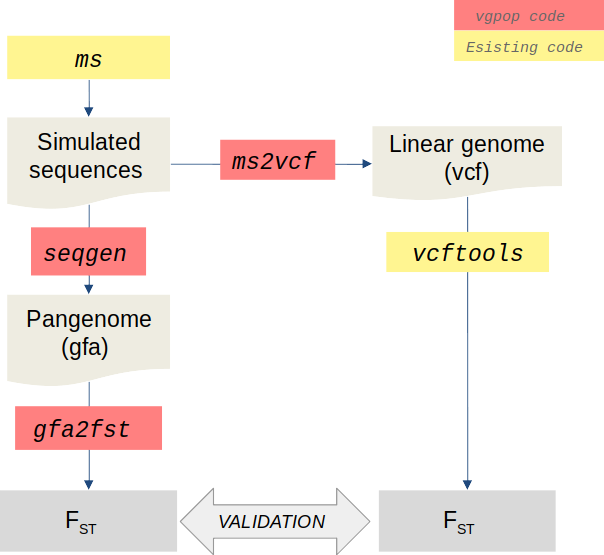
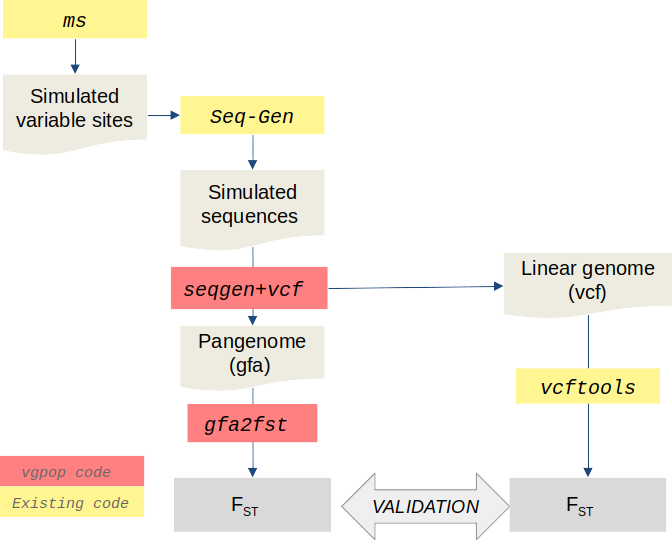
Updates from Overleaf

diff --git a/Chapters/Result_Candidate.tex b/Chapters/Result_Candidate.tex
@@ -297,7 +297,7 @@ The code I developed for the \textit{seqgen2gfa+vcf} function of \vgp takes as i
 
 %un po' contorta correggere 
 \section{Application of \vgp to simulated data}
-To test if the calculation made by \vgp are accurate, we applied \vgp functions to data for which we can predict ranges of expectations for the parameters calculated by \vgp. In particular we used sequence data produced by simulation under a known demographic scenario. 
+To test if the calculation made by \vgp are accurate, we applied \vgp functions to data for which we can predict ranges of expectations for the parameters calculated by \vgp. In particular we used sequence data produced by simulation under a known demographic scenario of two populations separating from a common ancestral population to measure the degree of separation calculated as $F\textsubscript{st}$. 
 
 %I exploited analiculayses of genetic population on simulated data to already know what to expect.
 
@@ -306,18 +306,17 @@ To test if the calculation made by \vgp are accurate, we applied \vgp functions 
 %  Subsection 
 %%%%%%%%%%%%%%%%%%%%%%%%%%%%%%%%%%%%%%%%%%%%%%%%%%%%%%%%%%%%%%%%%%%%%%%%%%%%%%%%%%%%%%%%%%%%
 
-\subsection{Simulation Scenario and Tools}
+\subsection{Simulation Scenario}
 
-As simulation scenario I considered a model adapted from \cite{hudson2004ms} with two diploid populations separating without subsequent migration (Figure \ref{fig:population.pdf}). The first population is bigger in size compared to the second, and through time develops first maintaining constant size and exponentially expanding in the last 5k generations. The second develops through time maintaining constant size. I considered three possible scenario for separation time: 5k (T1), 10k (T2), and 15k (T3) generations ago. The expectation is that the longer the separation time, the higher will be the $F\textsubscript{st})$ , with scenario T3 having the higher $F\textsubscript{st})$ compared to T2 and T1. \\
+As simulation scenario I considered a model adapted from \cite{hudson2004ms} with two diploid populations separating without subsequent migration (Figure \ref{fig:population.pdf}). The first population is bigger in size compared to the second, and through time develops maintaining constant size until 5k generations ago when it starts to exponentially expand. The second population develops through time maintaining constant size. I considered three possible scenario for separation time: 5k (T1), 10k (T2), and 15k (T3) generations ago. The expectation is that the longer the separation time, the higher will be the $F\textsubscript{st}$ , with scenario T3 having the higher $F\textsubscript{st}$ compared to T2 and T1. \\
 
-Simulations can provide sequence data through all the time spanning the demographic model used, however to simulate a living population we are interested only in the sequences at time zero, i.e. at the end of the simulations.\\
+Simulations can provide sequence data through all the time spanning the demographic model used, however to simulate a living population we are interested only in the sequences at time zero, i.e. at the most recent time.\\
 
 \begin{figure}[H]
 \centering
 \includegraphics[width=1.10\textwidth]{fig/populationthreetime.png}
 \decoRule
-\caption{\textbf{Fig:Population}. 
-T1 (0.031254 Ne), T2(0.0625 Ne),T3(0.09375 Ne)}
+e\caption{\textbf{Demographic models used as simulation scenario.} The y-axis is the time before present and time 0.00 correspond to the time when the sequence data is reported. The time is in units of 4Ne, where Ne represent the effective population size. Initially (time 0.12) there is only one ancestral population. After a number of generations the ancestral population splits in two populations evolving in isolation. I considered three possible times of separation (T1-3). The expectation is that the highest is the separation time the highest is the genetic distance between the two populations measured as $F\textsubscript{st}$.} 
 \label{fig:population.pdf}
 \end{figure}
 
@@ -325,20 +324,10 @@ T1 (0.031254 Ne), T2(0.0625 Ne),T3(0.09375 Ne)}
 %ref piu' recenti 
 \textbf{ms} \cite{hudson2004ms} is a software that generates sequence samples under a variety of neutral models, allowing one to investigate the statistical properties of such samples, to evaluate estimators or statistical tests, and generally to aid in the interpretation of polymorphic data sets. The program ms can be used to generate many independent replicate samples under a variety of assumptions about migration, recombination rate and population size.\\ 
 
-When simulated 100 replicates of eighty individuals in two populations (forty each), that divided 5k generations ago (T1) I used the following command line: 
+Using ms, for each scenario I simulated 100 replicates of a 10kb sequence for eighty individuals in two populations (forty each). When considering a population split time of 5k generations ago (T1) I used the following command line: 
 \begin{verbatim}
 ms 80 100 -T -t 11.2 -I 2 40 40 -g 1 44.36 -n 2 0.05 -eg 0.03125 1 0.0 -ej 0.03125 2 1   
 \end{verbatim}
-
-%I simulated two populations that divided 10.000 generations ago.
-%\begin{verbatim}
-%ms 80 100 -t 11.2 -I 2 40 40 -g 1 44.36 -n 2 0.05 -eg 0.03125 1 0.0 -ej 0.0625 2 1   
-%\end{verbatim}
-
-%I simulating two populations that divided 15k generations ago 
-%\begin{verbatim}
-%ms 80 100 -t 11.2 -I 2 40 40 -g 1 44.36 -n 2 0.05 -eg 0.03125 1 0.0 -ej 0.09375 2 1   
-%\end{verbatim}
 
 The explanation of the parameters used by ms is the following:
 
@@ -372,7 +361,7 @@ To simulate the T2 and the T3 parameters the difference in the command line is i
 
 \subsubsection{Conversion of simulated data in the GFA format}  
 
-To be processed by \vgp, the simulated data must be converted in the GFA format. We did this in two steps. First we transformed the data on variable sites obtained by ms into sequences using Seq-Gen \cite{rambaut1997seq}, than we transformed sequences into graphs with a utility function that I developed, named \textit{seqgen2gfa+vcf}. 
+To be processed by \vgp, the simulated data must be converted in the GFA format. We did this in two steps. First we transformed the data on variable sites obtained by ms into sequences using Seq-Gen \cite{rambaut1997seq}, than we transformed sequences into graphs with a utility function that I developed, named \textit{seqgen2gfa+vcf}. \\
 
 %I needed the whole sequence rebuilt and the links between the bubbles """SPIEGARE PERCHE', per usare odgi"g
 
@@ -380,10 +369,7 @@ To be processed by \vgp, the simulated data must be converted in the GFA format.
 %I convert mstogfa but I need the information about the links between the bubbles. 
 
 
-While ms provides information on variable sites it does not provide information on the invariable sequence between variable sites, that is necessary to build a graph. I obtained the information on invariable sites exploiting the tree connecting the simulated sequences that is also an output of ms. A tree is an entity that describes relationships between objects (Figure \ref{fig:phylogenies.jpg}). The tips of the tree are called leaves; leaves are connected by branches, whose length is proportional to the observed differences between the leaves; the coalescence of two branches generates a node or vertex. In our case the leaves represent the simulated sequences that we are actually interested in because they represent the individuals at current time. The nodes indicate the most common ancestor of sequences, the root of the tree is a special node located at the beginning of the tree. 
-
-%aggiungere due colori uno per pangenomica uno per evolutonary, la figura serve per ora e per dopo
-
+While ms provides information on variable sites it does not provide information on the invariable sequence between variable sites, that is necessary to build a graph. I obtained the information on invariable sites exploiting the tree connecting the simulated sequences that is also an output of ms. A tree is an entity that describes relationships between objects (Figure \ref{fig:phylogenies.jpg}). The tips of the tree are called leaves; leaves are connected by branches, whose length is proportional to the observed differences between the leaves; the coalescence of two branches generates a node or vertex. In our case the leaves represent the simulated sequences that we are actually interested in because they represent the individuals at current time. The nodes indicate the most common ancestor of sequences, the root of the tree is a special node located at the beginning of the tree. \\
 
 
 \begin{figure}[H]
@@ -396,74 +382,55 @@ While ms provides information on variable sites it does not provide information 
 
 Seq-Gen \cite{rambaut1997seq} is a program that simulates the evolution of nucleotide sequences along a phylogeny, using common models of the substitution process. A range of models of molecular evolution are implemented, including the general reversible model. 
 
-Using the tree obtained by ms, Seq-Gen reconstructed the entire sequences, including the invariable parts, for all replicates under the three simulated times. The command lines for Seq-Gen are: 
+Using the tree obtained by ms, Seq-Gen reconstructed the entire sequences, including the invariable parts, for all replicates under the three simulated scenario. The command lines for Seq-Gen are: 
 
 \begin{verbatim}
-seq-gen -mHKY -l 40 -s .2 -wa -z 783763255346462154 <treems40popT1> T1.seqgen
-
-seq-gen -mHKY -l 40 -s .2 -wa -z 783763255346462154 <treems40popT2> T2.seqgen
-
-seq-gen -mHKY -l 40 -s .2 -wa -z 783763255346462154 <treems40popT3> T3.seqgen
-
+seq-gen -mHKY -l 1000 -s .2 -wa -z 783763255346462154 <treems40popT1> T1.seqgen
 \end{verbatim}
-
+where T1.seqgen is the output of the simulations under the scenario T1.
 The explanation of the parameters is:
 
 \begin{itemize}
-
 \item\textbf{m <MODEL>:} This option sets the model of nucleotide or amino acid substitution.
 \item\textbf{l <SEQUENCELENGTH>:} This option allows the user to set the length in nucleotides or amino acids that each simulated sequence should be.
 \item\textbf{s <SCALE>:} This option allows the user to set a value with which to scale the branch lengths in order to make them equal the expected number of substitutions per site for each branch. Basically Seq-Gen multiplies each branch length by this value.
 \item\textbf{z <RANDOMNUMBERSEED>:} This option allows the user to specify a seed for the random number generator. Using the same seed (with the same input) will result in identical simulated datasets. This is useful because you can then delete the (often large) simulated sequence files to save disk space. To recreate a set of simulations, you must use exactly the same model options. The default is to obtain a seed from the system clock which will be displayed on the screen allowing it noted down.
 \item\textbf{wa:}
-Write Ancestral Sequences. This option allows the user to obtain the sequences for each of the internal nodes in the tree obtained with ms 
-\end{itemize}
+Write Ancestral Sequences. This option allows the user to obtain the sequences for each of the internal nodes in the tree obtained with ms \end{itemize}
 
-%descrizione seqgen2gfa+vcf
-
-\subsection{Calculation of  $F\textsubscript{st})$  from simulated data using \vgp}
+Once I obtained the variable sites from ms and the sequence from SeqGen I used the \vgpop function \textit{seqgen2gfa+vcf} that I wrote, to convert the sequences from SeqGen to GFA format.  
 
 
+
+%-------------------------------------------------------------
+\subsection{Calculation of  $F\textsubscript{st}$ from simulated data using \vgp}
+
+I calculated $F\textsubscript{st}$ from the pangenome of the simulated data using the \vgpop function \textit{gfa2vcf}. As a control the simulated sequences were also converted in a VCF file that was used to calculate $F\textsubscript{st}$ with an already existing software: in this way I can compare if the $F\textsubscript{st}$ obtained by the software I wrote are in the same range of those obtained in a different way (Figure \ref{fig:pipeline.pdf}). \\
+
+
+%cambiare figura 11 in minipresentazione= line1
 \begin{figure}[H]
 \centering
-\includegraphics[width=1.00\textwidth]{fig/pipeline_new.png}
+\includegraphics[width=1.00\textwidth]{fig/pipeline.png}
 \decoRule
-\caption{\textbf{Fig:Pipeline}. 
-Validation.}
+\caption{\textbf{Pipeline for the application and validation of \vgp to simulated data.} I used the software ms to produce 100 replicates of simulated variable sites in a 10kb region for eighty individuals under each of the three scenario in Figure \ref{fig:population.pdf}. The variable sites were transformed in sequences that include also the invariable part using SeqGen and the sequences were used to reconstruct the pangenome of the simulated data that was then processed with the \textit{gfa2fst} function of the \vgp library. $F\textsubscript{st}$ calculation was validated using a software, vcftools, that uses a different $F\textsubscript{st}$ formula. }
 \label{fig:pipeline.pdf}
 \end{figure}
 
-Starting from ms, I obtained simulated sequences, I reconstruct an ancestral tree with Seq-Gen. 
-
-These sequences were encoded in a GFA file and VCF file with \textit{seqgen2gfa+vcf }.
-
-
-On GFA file I calculate the allele frequencies with \textit{gfa2allelefreq}, the genotype frequencies with \textit{gfa2genofreq}, and the Fst with \textit{gfa2fst}. 
-
-On VCF file I extract individuals from the populations that I considered with bcftools. %non so se mettere questa parte
-\begin{verbatim}
-
-bcftools view -S pop_1.txt seqgen.vcf.gz -o seqgen.bcf.vcf.gz #pop1
-bcftools view -S pop_2.txt seqgen.vcf.gz -o  seqgen.bcf.vcf  #pop2 
-\end{verbatim}
-
-Calculate Allele Frequencies for two populations with vcftools
-\begin{verbatim}
-
-vcftools --vcf seqgen.bcf.vcf --freq --out seqgen.bcf.pop1.vcf .frq
-
-vcftools --vcf ms_rep{1}.bcf.vcf --freq --out seqgen.bcf.pop2.vcf.frq 
-
-\end{verbatim}
-
-I calculate Fst with \textit{vcf2fst} (aggiungerlo nell'immagine?). %aggiungere altre info sullo script
-
-Fst is the same from GFA and VCF file.
-
-
 \begin{figure}[H]
 \centering
-\includegraphics[width=1.00\textwidth]{fig/fst_time (1).png}
+\includegraphics[width=1.00\textwidth]{fig/Fstvcftoolsandvgpop.png}
+\decoRule
+\caption{\textbf{Fig:valure of Fst are equal}.}
+\label{fig:fsttime.png}
+\end{figure}
+
+
+$F\textsubscript{st}$ was calculated for each replicates of each scenario. Figure \ref{fig:fsttime.png} shows the distributions of $F\textsubscript{st}$ relative to the three scenario and table XXX reports the relative summary statistics. FRASE CHE COMMENTA I RISULTATI doppo che vediamo la figura definitiva    Fst is the same from GFA and VCF file.\\
+ 
+\begin{figure}[H]
+\centering
+\includegraphics[width=1.00\textwidth]{fig/tabvcftoolsvgpop.png}
 \decoRule
 \caption{\textbf{Fig:valure of Fst are equal}.}
 \label{fig:fsttime.png}
@@ -474,7 +441,18 @@ Fst is the same from GFA and VCF file.
 
 
 
+
 \section{Application of \vgp to real data: allele frequencies at variable loci of the HLA region}
+
+HLA is an highly polymorphic region of the genome and it is particularly difficult to assemble with linear methods. The HLA region represent a typical case in which the use of pangenomes can improve the mappability of the sequence reads and the discovery of genomic variants \cite{chin2019diploid}.
+%referenza tesi Erik HLA
+%calcolare sul vcf frequenze alleliche con vcftools
+%Pangenomic methods allow us to relate all genomes or sequences in our analysis directly to each other. One of the most polymorphic parts of the genome is the HLA region and for this thing I chose this region.
+
+PAngenome Class I E gene  bp long 9 sequences  ENSEMBL 
+
+I calculated allele frequency at variable sites in the HLA region from a pangenome obtained 
+
 
 I applicate two functions of \vgp to pangenomes of HLA. In particular I calculate \textit{gfa2vcf} and \textit{gfa2allelefreq}.
 
@@ -482,14 +460,27 @@ I applicate two functions of \vgp to pangenomes of HLA. In particular I calculat
 
 \begin{figure}[H]
 \centering
-\includegraphics[width=0.50\textwidth]{fig/pangenome.pdf}
+\includegraphics[width=1.10\textwidth]{fig/pangenomeHLA.png}
 \decoRule
 \caption{\textit{pangenome}. Is represented a piece of pangenome of HLA, the first row represent Reference and the other rows represent another paths. (\textbf{A}). Zoom for the first column  (\textbf{B}), zoom the second column(\textbf{C})}
 \label{fig:pangenome.pdf}
 \end{figure}
 
+HLA-E is encoded by the major histocompatibility complex (MHC) locus and belongs to non-classical MHC class I (MHC Ib) genes. HLA-E protein shares high structural and functional homology with other MHC class I molecules. HLA-E is expressed on most nucleated cells of the human body. However, surface expression ofHLA-E protein was found in a restricted set of tissues. In particular, it has been found on leukocytes,endothelium, and cells of trophoblast.\cite{kanevskiy2019dimorphism} 
 
-Pangenomic methods allow us to relate all genomes or sequences in our analysis directly to each other. One of the most polymorphic parts of the genome is the HLA region and for this thing I chose this region.
+
+
+
+
+
+\begin{figure}[H]
+\centering
+\includegraphics[width=1.20\textwidth]{fig/C-3107.sort.odgi.png}
+\decoRule
+\caption{\textit{pangenome}.Gene con inserzioni,SNP, regione molto complessa}
+\label{fig:pangenome.pdf}
+\end{figure}
+
 
 \subsection{gfa2vcf}
 
@@ -522,7 +513,7 @@ The same for the second column, left node there aren't in 5 paths, and for calcu
 
 
 %sequenze nel pangenoma sotto forma di lettere
-
+%sostituire A con pangenoma intero e provare con un gene famoso
 
 {\small
 \begin{table}
@@ -543,6 +534,10 @@ gi|568815592:30489405-30494204 & 3904 & G & A & 0.67\\
 \end{adjustbox}
 \end{table}
 }
+
+
+
+HLA semlice ma un po' più complesso
 
 
 

diff --git a/Chapters/Introduction.tex b/Chapters/Introduction.tex
@@ -25,11 +25,11 @@
 %PER ENZA \url{https://aulascienze.scuola.zanichelli.it/come-te-lo-spiego/2018/04/18/dal-metodo-sanger-a-oggi-40-anni-di-sequenziamento-del-dna/} mi sono ispirata a questi
 
 
-The process of sequencing determines the exact order of the monomers in a biomolecule, the nucleotides in the case of DNA sequencing. Sequence analyses has many applications, e.g. identify mutations or establish phylogenetic relationships among species. Sanger's method marked the beginning of genomics research and has been successfully until a decade ago when \textit{next generation sequencing (NGS)} was introduced to overcome the main limit of the Sanger sequencing,(\cite{Sanger5463}) i.e. the sequencing volume.
+The process of sequencing determines the exact order of the monomers in a biomolecule, the nucleotides in the case of DNA sequencing. Sequence analyses has many applications, such as identifing mutations or establish phylogenetic relationships among species. Sanger's method marked the beginning of genomics research and has been successfully until a decade ago when \textit{next generation sequencing (NGS)} was introduced to overcome the main limit of the Sanger sequencing,\cite{Sanger5463} i.e. the sequencing volume.
 
-The main feature of NGS sequencing is the high-throughput. Unlike the traditional Sanger method, the NGS allows to analyze many sequences in parallel, reducing analysis times and costs. This reduction has improved over time: the sequencing of the first human genome, based on the Sanger method, required an investment of almost 100M dollars in about ten years, while today the sequence of a human genome can be obtained for less than 1k dollars in one day (\cite{sequencing}). Nevertheless, NGS has limitations too. The main limitation is the initial amplification of DNA sequences, which can introduce random errors in the sequence and leads to the loss of "accessory" information, such as the constellation of epigenetic modifications that are important for understanding the function of a fragment of genome. (\cite{sequencing}) A second important limitations the size of the sequenced regions that covers at its best 700kb making impossible to map large structural variants.
+The main feature of NGS sequencing is the high-throughput. Unlike the traditional Sanger method, the NGS allows to analyze many sequences in parallel, reducing analysis times and costs. This reduction has improved over time: the sequencing of the first human genome, based on the Sanger method, required an investment of 2.7 billion dollars in about ten years \cite{ \footnote{Estimated in 1991 dollars, as per \url{https://www.genome.gov/human-genome-project/Completion-FAQ}}, while today the sequence of a human genome can be obtained for less than 1k dollars in one day \cite{sequencing}. Nevertheless, NGS has limitations too. One essential limitation is the initial amplification of DNA sequences, which can introduce random errors in the sequence and leads to the loss of "accessory" information, such as the constellation of epigenetic modifications that are important for understanding the function of a fragment of genome \cite{sequencing}. A second, and more severe limitation from the perspective of sequence analysis, is the short length of sequencing reads, which are typically shorter than 250bp. This greatly limits the fraction of a genome which can be accessed by this sequencing technology, and complicates the discovery and genotyping of structural variation.
 
-To overcome these limitations, research is now pointing towards \textit{third generation} methods that are oriented toward sequencing very long regions (ideally whole chromosomes) without  prior amplification. Among these methods, nanopore sequencing derives from an observation from the 1980s that when a single-stranded DNA passes through a very narrow channel (nanopore) (Fig:\ref{fig:nanopore.png})generates a flow of ions with a characteristic pattern, which depends uniquely on its sequence. This technology allows sequencing millions of nucleotides without prior amplification of DNA fragments. (\cite{wiki:nanopore}).
+To overcome these limitations, research is now pointing towards \textit{third generation} methods that are oriented toward sequencing very long regions (ideally whole chromosomes) without  prior amplification. Among these methods, nanopore sequencing derives from an observation from the 1980s that when a single-stranded DNA passes through a very narrow channel (nanopore) (Fig:\ref{fig:nanopore.png})generates a flow of ions with a characteristic pattern, which depends uniquely on its sequence. This technology allows sequencing millions of nucleotides without prior amplification of DNA fragments. \cite{wiki:nanopore}.
 
 \begin{figure}[H]
 \centering
@@ -181,7 +181,7 @@ VCF file (\ref{fig:vcf.png}) consists of:
 In the (Fig: \ref{fig:vcf.png}) adapted by (\cite{10.1093/bioinformatics/btr330}) the header contains an arbitrary number of information lines, each starting with characters \#\#, and a TAB delimited field definition line, starting with a single \#,
 character. The meta-information header lines provide a standardized description of tags and annotations used in the data section. The use of meta-information allows the information stored within a VCF file to be tailored to the data set in question. It can be also used to provide information about the means of file creation, date of creation, version of the reference sequence, software used and any other information relevant to the history of the file. 
 
-\item\textbf{Data column}
+\item\textbf{Data columns}
 
 These corresponding to data columns representing the chromosome (CHROM), a 1-based position of the start of the variant (POS), unique identifiers of the variant (ID), the reference allele (REF), a comma separated list of alternate non-reference alleles (ALT), a phred-scaled quality score (QUAL), site filtering information (FILTER) and a semicolon separated list of additional, user extensible annotation (INFO). In addition, if samples are present in the file, the mandatory header columns are followed by a FORMAT column and an arbitrary number of sample IDs that define the samples included in the VCF file. The FORMAT column is used to define the information contained within each subsequent genotype column, which consists of a colon separated list of fields.
 
@@ -190,7 +190,7 @@ These corresponding to data columns representing the chromosome (CHROM), a 1-bas
 
 \subsection{Graphical Fragment Assembly}
 
-Pangenome data are represented by Graphical Fragment Assembly (GFA).(\cite{GFA})
+Pangenome data are represented by Graphical Fragment Assembly (GFA, \cite{GFA})
 
 \begin{figure}[H]
 \centering
@@ -230,20 +230,22 @@ Path an ordered list of oriented segments, where each consecutive pair of orient
 \centering
 \includegraphics[width=0.80\textwidth]{fig/HLA_loci.png}
 \decoRule
-\caption{Schematic representation of the HLA locus on human chromosome 6. \cite{zakharova2019contribution})}
+\caption{Schematic representation of the HLA locus on human chromosome 6. adapted from \cite{zakharova2019contribution})}
 \label{fig:HLA.png}
 \end{figure}
 
-Genetic studies describes that an important roles in the developing of diseases is played by the major histocompatibility complex (MHC), or human leukocyte antigen (HLA). It contains several gene clusters that encode surface heterodimeric proteins, which are anchored to the plasma membrane and are responsible for antigen presentation to T cells, a stage that is followed by the development of an adaptive immune response. MHC proteins are subdivided into class I, class II, and class III (the complement system) \cite{campbell1993map}.
 
 
 
-The HLA region (Fig.\ref{fig:HLA.png}) adapted by \cite{zakharova2019contribution} is located on the short arm of chromosome 6 from 6p21.1 to p21.3 and is shown with a red stripe. The length of class II (red), class III (blue), and class I (green) genes (from the centromeric to the telomeric end) is shown. The class II region includes genes for the $\alpha$ and $\beta$ chains of the MHC class II molecules HLA-DR, HLA-DP and HLA-DQ. In addition, the genes encoding the DMαand DM $\beta$ chains, as well as the genes encoding the $\alpha$ and $\beta$ chains of the DO molecule (DO $\alpha$ and DO $\beta$, respectively), are also located in the MHC class II region.
+The human major histocompatibility complex (MHC) or human leukocyte antigen (HLA) is a locus composed of closely linked polymorphic genes that code for cell surface proteins essential for the adaptive immune system. It contains several gene clusters coding surface heterodimeric proteins, which are anchored to the plasma membrane and are responsible for antigen presentation to T cells, a stage that is followed by the development of an adaptive immune response. MHC proteins are subdivided into class I, class II, and class III (the complement system) \cite{campbell1993map}. Many genetic diseases are caused by mutations in this region \cite{tiwari2012hla}.  
+
+
+The HLA region (Fig.\ref{fig:HLA.png}) is located on the short arm of chromosome 6 from 6p21.1 to p21.3 in a region spanning 7Mb. The class II region includes genes for the $\alpha$ and $\beta$ chains of the MHC class II molecules HLA-DR, HLA-DP and HLA-DQ. In addition, the genes encoding the DM$\alpha$ and DM $\beta$ chains, as well as the genes encoding the $\alpha$ and $\beta$ chains of the DO molecule (DO $\alpha$ and DO $\beta$, respectively), are also located in the MHC class II region.
 
 
 
 
 
-In the latest version \cite{eggertsson2017graphtyper} of the human reference genome (GRCh38), there are several alternate loci where the sequence variation is too complex to be represented with a single sequence. These loci are generally highly polymorphic, and many are known to co-segregate with disease and are therefore of great interest in population genetics. The most prominent example, the HLA region, is known to associate with a number of human diseases \cite{tiwari2012hla}. 
+In the latest version of the human reference genome (GRCh38), there are several alternate loci where the sequence variation is too complex to be represented with a single sequence \cite{eggertsson2017graphtyper}. These loci are generally highly polymorphic, and many are known to co-segregate with disease and are therefore of great interest in population genetics. The most prominent example, the HLA region, is known to associate with a number of human diseases . 
 
 Short-read sequencing is the standard in genome-wide sequence analysis. Most common approaches for discovering sequence variants involve aligning sequence reads to a reference genome \cite{li2009fast} and searching for variants as alternative sequences in read alignments. However, some reads cannot be aligned to a reference genome, particularly those originating from highly polymorphic regions and regions absent from the reference genome.

diff --git a/Chapters/Aimsthesis.tex b/Chapters/Aimsthesis.tex
@@ -8,18 +8,14 @@
 
 %Illustra in modo chiaro e coinciso le finalità del lavoro sperimentale svolto dal candidato. 
 
-The way in which the study of genomic sequences is studied is facing a major change. Standard studies in sequence analysis typically assume a single linear reference genome with severe limitations in the identification of structural and complex variation. Pangenomic models, i.e. ERIK... allow to overcome these limitations  ... \\
+We are updating our methods to study genomic sequences to meet new challenges and reach for new possibilities offered by contemporary sequencing technology. The development of high-quality long-read sequencing methods allow us to routinely assemble whole genomes \emph{de novo}. This situation allows us to consider whole genomes in our analyses, allowing us to expose the full range of genomic variation to downstream studies. However, doing so requires updates to our methods, to allow us to consider the mutual relationships between a collection of sequences in a complete way.
 
+Pangenomes are large, and unwieldy to work with as raw collections of sequences. One possible approach to processing them considers the collection of genomes and their mutual alignment in a compact, graphical model. As a lossless representation of the pangenome and its embedded sequence variation, these \emph{variation graphs} should in principle support any kind of population genetic analysis that would be completed on simpler representations of the genomes and their variation. But, because this pangenomic approach is quite recent, the software for population genetic analyses currently available are still mostly based on genomic data in the linear format.
 
-Because the pangenomic approach is quite recent, the software for population genetic analyses currently available is mostly based on genomic data in the linear format.  
-%With this model another limit is that see the information that there are presents in the reference sequence. To address this limitation, the aim of my thesis is work to implement a software library for the statistical population analysis using pangenomic data models.
+In this thesis, I respond to this need by implementing a set of tools for population genetics on genome graphs. At a high level, my work has two parts. I first uncover genomic variation embedded in pangenomic variation graphs by developing and implementing straightforward algorithms for \emph{bubble} detection on variation graphs. I then demonstrate the calculation of basic population genetic parameters over these variations, considering the set of genomes embedded in the graph.
 
-%\noindent
-%These are Typically represented in the Graphical Fragment Assembly (GFA) format, these models can represent whole genome alignments in a compact graphical structure. Because they embed the linear genomes from which they are constructed, I can choose a particular reference genome and project the variants (which appear as bubbles in the graph) back into any reference frame. I have focused for the first step on algorithms for bubble detection that allow us to generate Variant Call Format (VCF) files from graphs.
-%I use this projection to drive standard population genetic analyses, and as a mechanism to communicate results that we obtain from pangenome graph based population genetic analyses which I am designing.
-%In the second step, I use functions of library for analyses directly on pangenome data.
+Specifically, this work required the completion of a series of tasks:
 
-The aim of the project I developed during my master thesis was to implement a library for population genetic analysis from pangenomic data. The objectives were: 
 
 \begin{itemize}
     \item To write code for parsing variable regions of the genomic data in graphical fragment assembly format 
@@ -27,6 +23,19 @@ The aim of the project I developed during my master thesis was to implement a li
     \item To test the functions of the library on simulated data
     \item To test the functions of the library on a case study
 \end{itemize}
+
+
+%The way in which the study of genomic sequences is studied is facing a major change. Standard studies in sequence analysis typically assume a single linear reference genome with severe limitations in the identification of structural and complex variation. Pangenomic models, i.e. ERIK... allow to overcome these limitations  ... \\
+
+
+%With this model another limit is that see the information that there are presents in the reference sequence. To address this limitation, the aim of my thesis is work to implement a software library for the statistical population analysis using pangenomic data models.
+
+%\noindent
+%These are Typically represented in the Graphical Fragment Assembly (GFA) format, these models can represent whole genome alignments in a compact graphical structure. Because they embed the linear genomes from which they are constructed, I can choose a particular reference genome and project the variants (which appear as bubbles in the graph) back into any reference frame. I have focused for the first step on algorithms for bubble detection that allow us to generate Variant Call Format (VCF) files from graphs.
+%I use this projection to drive standard population genetic analyses, and as a mechanism to communicate results that we obtain from pangenome graph based population genetic analyses which I am designing.
+%In the second step, I use functions of library for analyses directly on pangenome data.
+
+%The aim of the project I developed during my master thesis was to implement a library for population genetic analysis from pangenomic data. The objectives were: 
 
 
 

diff --git a/Chapters/Abstract.tex b/Chapters/Abstract.tex
@@ -16,8 +16,8 @@
 \newcommand{\option}[1]{\texttt{\itshape#1}}
 
 %~~~~~~~~~~~~~~~~~~~~~~~~~~~~~~~~~~~~~~~~~~~~~~~~~~~~~~~~~~~~~~~~~~~~~~~~~~~~~~~~~~~~~~~
-Studies of genomics typically assume a single linear reference genome and these presents limits. I started the development of a software library for the statistical analysis using pangenomic data models, these represent whole genome alignments in a compact structure, without loosing information. Because a pangenome embeds the linear genomes from which it is constructed, we can choose a particular reference genome and project the variants on it(which appear as bubbles in the graph). Therefore, I focused on develop algorithms for bubble detection, generating Variant Call Format (VCF) files directly from graphs.
+Studies of genomes typically assume a single linear reference genome. This can make it difficult to observe sequences in other genomes that are divergent from the reference, which in turn can limit the accuracy and completeness of our analyses. To address this limitation, we can work with pangenome reference systems that represent the mutual relationships between many complete genomes without using a single one as a point of reference. These models often encode genomes and their mutual alignment in a compact graphical structure. Here, I begin the development of a software library for the statistical analysis of population genetic parameters of genomes stored in these graphical pangenomic data models. Because a pangenome embeds the linear genomes from which it is constructed, we can choose a particular reference genome and project the variants on it(which appear as bubbles in the graph). Therefore, I focused on develop algorithms for bubble detection, generating Variant Call Format (VCF) files directly from graphs. I then developed methods to annotate these variants with allele frequencies of genomes embedded in the input graph, and then explored the calculation of Fst. % for three different time points.
 
-\noindent
-We can use this variants projection to drive standard population genetic analyses. In my thesis, I focused on the calculation of Fst for three different time.
+%\noindent
+%We can use this variants projection to drive standard population genetic analyses. In my thesis, I focused on the calculation of Fst for three different time.
 

diff --git a/Chapters/Results_ResearchGroup.tex b/Chapters/Results_ResearchGroup.tex
@@ -3,6 +3,10 @@
 
 %\label{Chapter3} % For referencing the chapter elsewhere, use \ref{Chapter4} 
 
-%----------------------------------------------------------------------------------------
-The project presented here is part of a new line of research under development in the host research group.
+%OK ENZA OK ERIK ----------------------------------------------------------------------------------------
+The project presented here is part of a new line of research under development in the host research group at the Institute of Genetics and Biophysics of the National Research Council (IGB-CNR).
+Due to this work, the team at IGB-CNR where I completed my master thesis project has recently started a collaboration \cite{eizenga2020succinct} with a team at the University of California Santa Cruz that has outstanding expertise in graphical pangenomic models \cite{garrison2019graphical,hickey2020genotyping,eizenga2020pangenome,siren2020haplotype,rhie2020towards,eizenga2020succinct,martiniano2020removing,llamas2019strategy,carletti2019graph,siren2019supplement,chin2019diploid,garrison2018variation,garg2018graph,paten2018superbubbles,computational2018computational}.
+Although the group at UCSC has great expertise in methods for pangenome construction, manipulation, and the generalization of basic bioinformatic processes to these models, they have not extensively focused on population genetic questions.
+This suggests an opportunity for future research, and we hope to continue this line of collaboration with this and other groups interested in these topics.
+
 %Descrive il progetto di ricerca di cui fa parte l’attività sperimentale svolta dal candidato. Vanno qui riportati i risultati ottenuti dal gruppo di ricerca in precedenza e/o in contemporanea rispetto all’attività svolta dal candidato che siano rilevanti per l’argomento della tesi. Nel caso in cui il candidato abbia svolto, nell’ambito del gruppo di appartenenza, un progetto di ricerca nuovo e autonomo, questa sezione può essere eliminata. In questa sezione è richiesto l’uso di illustrazioni.

diff --git a/Chapters/Materials.tex b/Chapters/Materials.tex
@@ -302,3 +302,22 @@ odgi sort -i E-3133.og  -o - | odgi viz -i - -o E-3133.sorted.png -x 15000
   
 
 
+%%%%%%%%%%%%%%%%%%%%%%%%%%%%%%%%%%%%%%%%%%%%%%%%%%%%%%%%%55
+% quello sotto VA NEI METODI 
+On GFA file I calculate the allele frequencies with \textit{gfa2allelefreq}, the genotype frequencies with \textit{gfa2genofreq}, and the Fst with \textit{gfa2fst}. 
+
+On VCF file I extract individuals from the populations that I considered with bcftools. %non so se mettere questa parte
+\begin{verbatim}
+
+bcftools view -S pop_1.txt seqgen.vcf.gz -o seqgen.bcf.vcf.gz #pop1
+bcftools view -S pop_2.txt seqgen.vcf.gz -o  seqgen.bcf.vcf  #pop2 
+\end{verbatim}
+
+Calculate Allele Frequencies for two populations with vcftools
+\begin{verbatim}
+
+vcftools --vcf seqgen.bcf.vcf --freq --out seqgen.bcf.pop1.vcf .frq
+
+vcftools --vcf ms_rep{1}.bcf.vcf --freq --out seqgen.bcf.pop2.vcf.frq 
+
+\end{verbatim}
